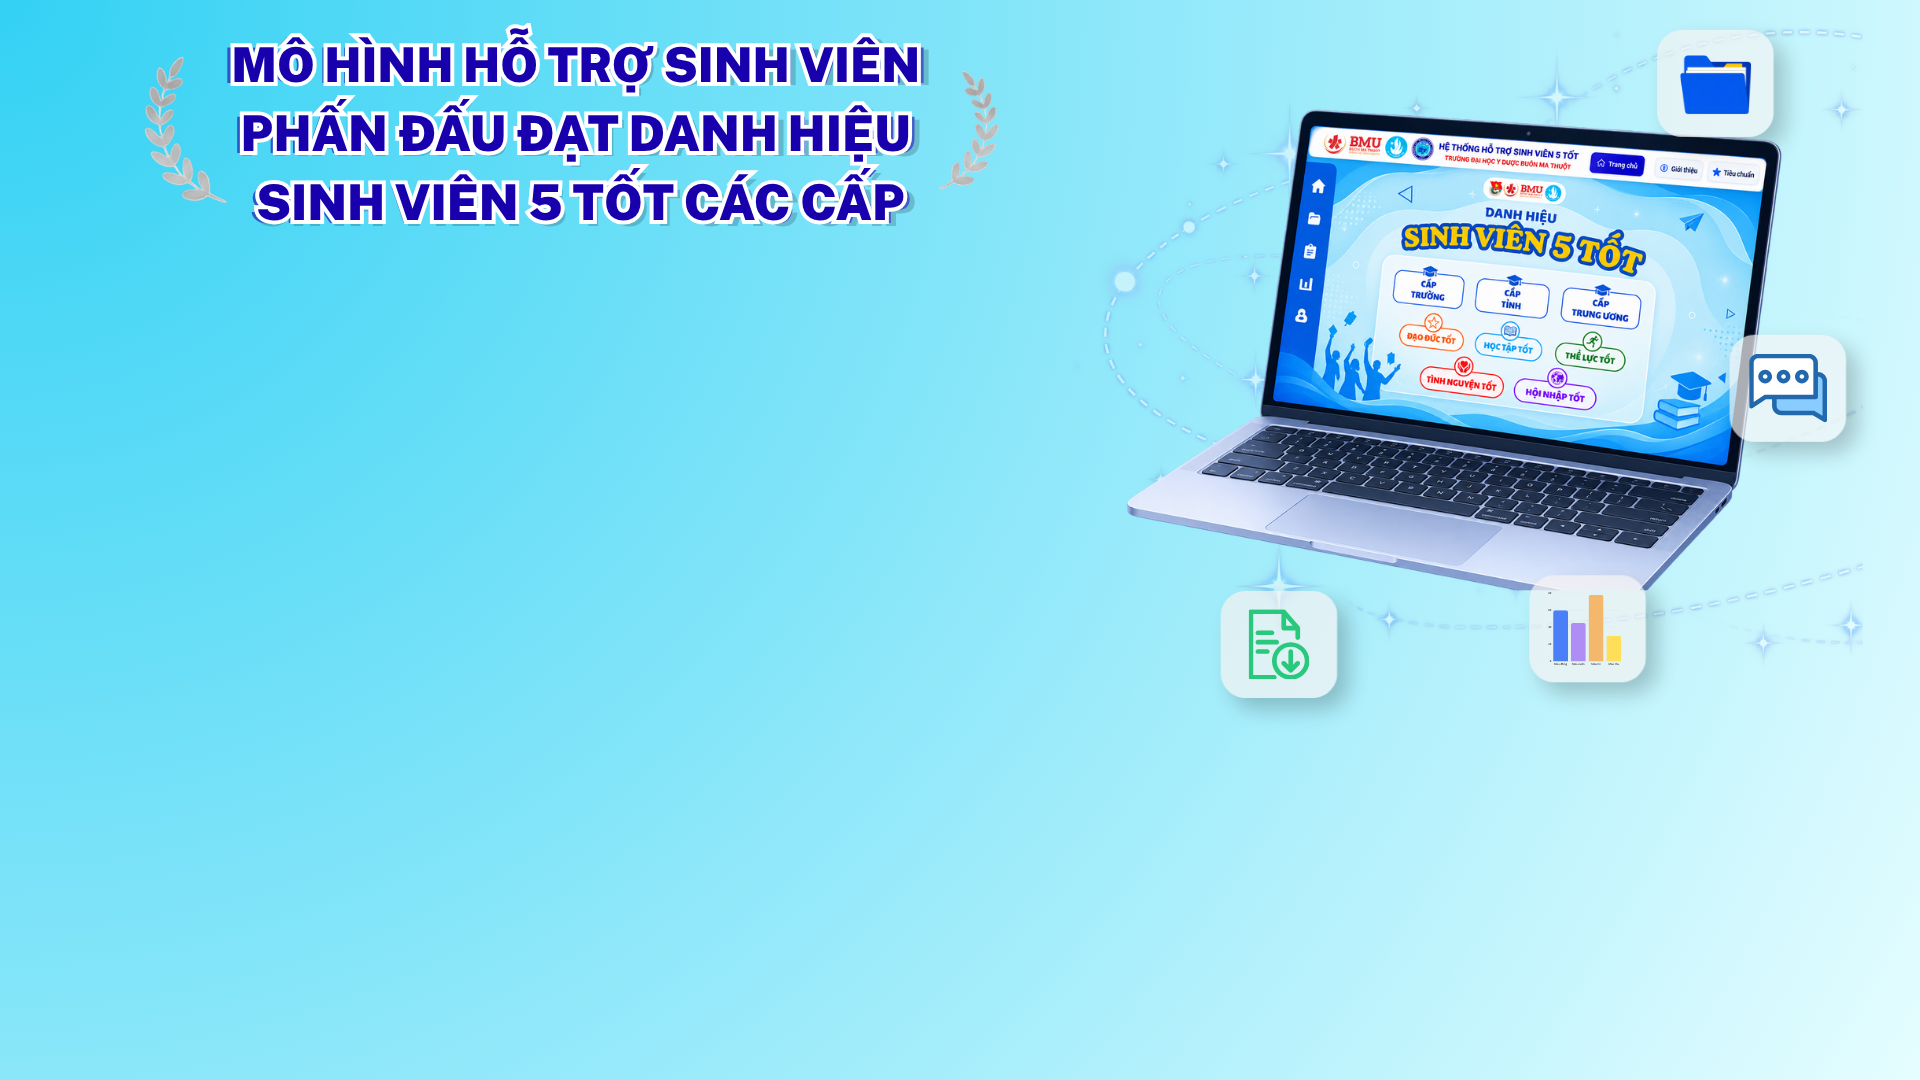
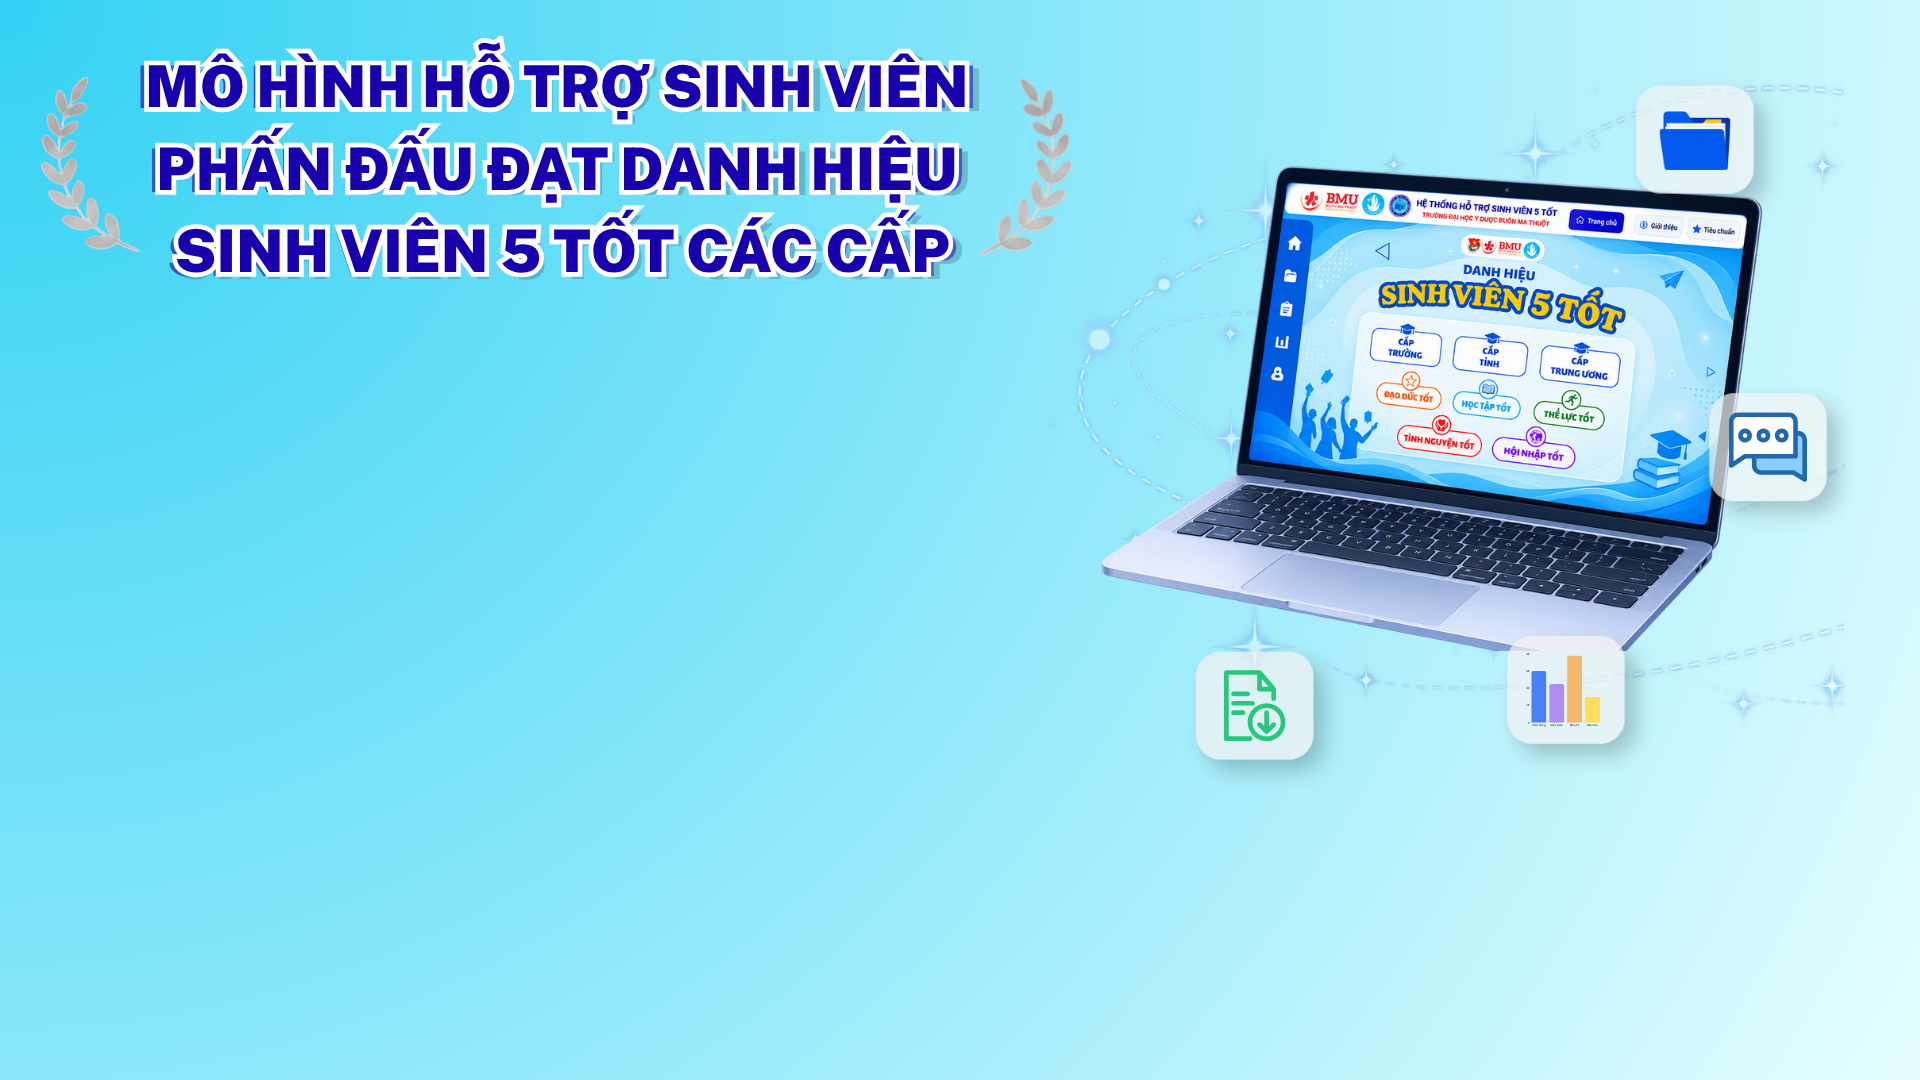
Update

diff --git a/app/introduce/page.tsx b/app/introduce/page.tsx
@@ -112,14 +112,12 @@ async function loadCriteria() {
 
    <img
   className="intro-title"
-  src="/Tenhethong2.png"
+  src= {isMobile ? "/Tenhethong2.png" : "Tenhethong1.png"}
   alt="Tên hệ thống"
   style={{
     height: isMobile ? "50px" : "60px",
     objectFit: "contain",
-    transform: isMobile
-      ? "translateX(0px)"
-      : "translateX(100px)",
+    marginLeft: isMobile ?"0" : "5"
   }}
 />
   </div>
